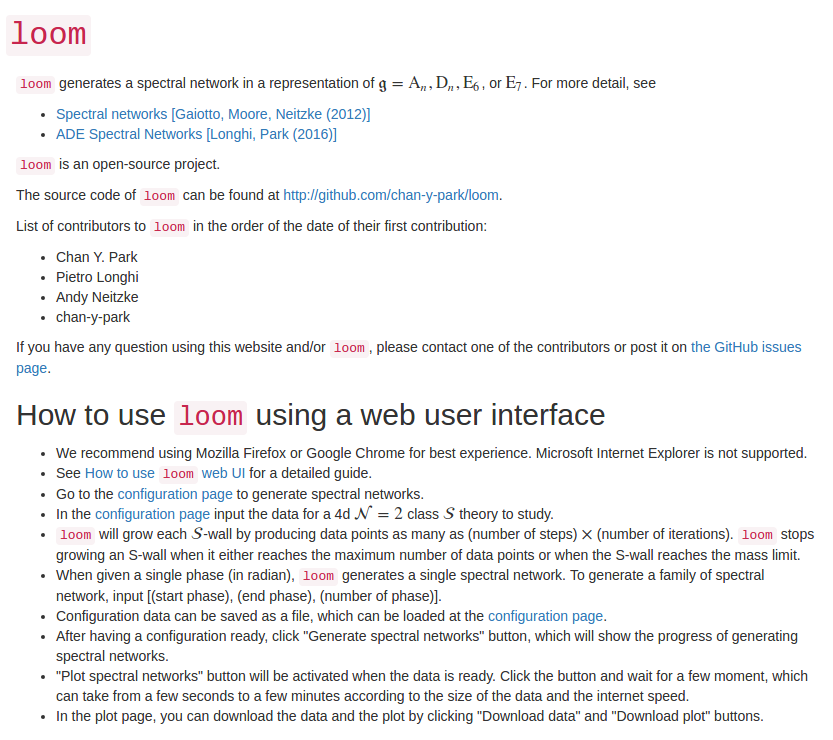
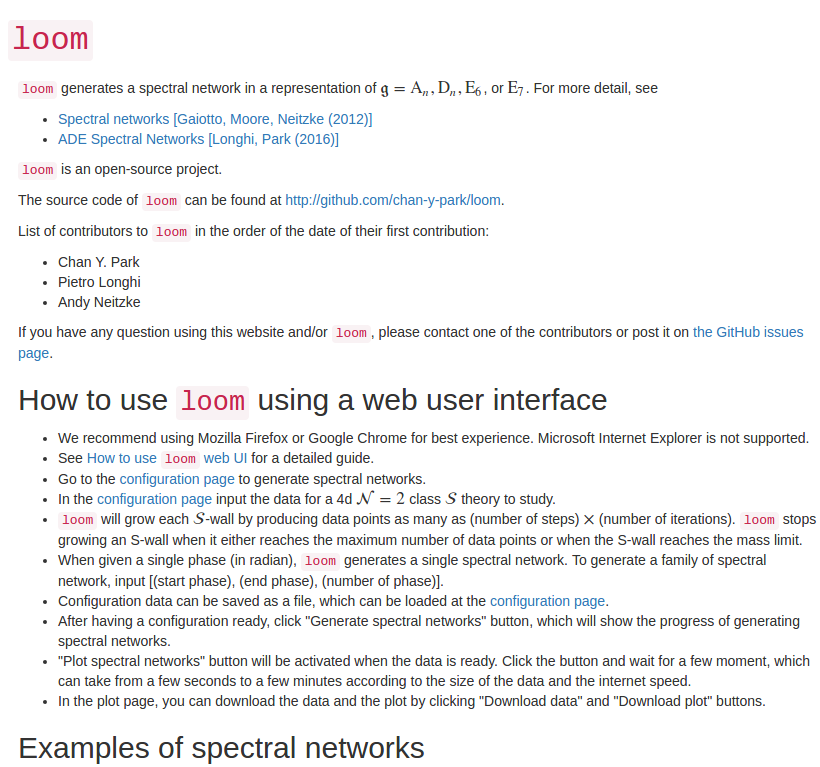
changed iframes to png

Changed region(s): [[0.0, 0.0932, 1.0, 0.9946], [0.0, 0.0311, 0.122, 0.0622]]

diff --git a/blog/scipy_2016_talk.html b/blog/scipy_2016_talk.html
@@ -144,8 +144,11 @@ Chan's Blog            </a>
 <h2>Introduction</h2>
 <p>This is an expanded version of my talk &#64; SciPy 2016.</p>
 <p>I am a postdoc studying string theory at Rutgers University. Here I want to share with you my experience of using Python in my research project. As a teaser, let me show you the end-product of the project, loom, whose web UI can be found at <a class="reference external" href="http://chan.physics.rutgers.edu/loom">http://chan.physics.rutgers.edu/loom</a>.</p>
-<iframe src="http://chan.physics.rutgers.edu/loom" style="border: 1px black solid; width: 800px; height: 800px;"></iframe><p>Here you can see many colorful plots produced for real research, and you can generate your own plot by first going to the configuration page, inputting a few parameters, and then click ‘generate.’ Now you see loom working hard, and like a food network show, let me show you a prepared plot instead of waiting for a while, and here is one nice colorful plot.</p>
-<iframe src="http://chan.physics.rutgers.edu/loom/plot?data=AD_from_pure_SU_3" style="border: 1px black solid; width: 1280px; height: 800px;"></iframe><div class="section" id="goal">
+<a class="reference external image-reference" href="http://chan.physics.rutgers.edu/loom/"><img alt="loom front page #1" class="align-left" src="./figures/loom_scipy_2016/loom_front_page_1.png" /></a>
+<a class="reference external image-reference" href="http://chan.physics.rutgers.edu/loom/"><img alt="loom front page #2" class="align-left" src="./figures/loom_scipy_2016/loom_front_page_2.png" /></a>
+<p>Here you can see many colorful plots produced for real research, and you can generate your own plot by first going to the configuration page, inputting a few parameters, and then click ‘generate.’ Now you see loom working hard, and like a food network show, let me show you a prepared plot instead of waiting for a while, and here is one nice colorful plot.</p>
+<a class="reference external image-reference" href="http://chan.physics.rutgers.edu/loom/plot?data=AD_from_pure_SU_3"><img alt="loom plot page" class="align-left" src="./figures/loom_scipy_2016/loom_plot_page.png" /></a>
+<div class="section" id="goal">
 <h3>Goal</h3>
 <p>My goal is to illustrate how Python is integrated throughout the progress of this project</p>
 <ul class="simple">
@@ -291,7 +294,7 @@ M = |Z|,\ Z = \oint_\gamma \lambda.
 <h3>Examples of spectral networks from <tt class="docutils literal">loom</tt></h3>
 <p>In practice, we generate a familiy of colorful networks called spectral networks, stare it until we spot a particle, do some taxonomy of them until we claim a victory.</p>
 <div style="display: block; margin: auto; width: 650px;">
-    <iframe src="loom_plots/AD_from_pure_SU_3.html" style="width: 600px; height: 700px; background:none; box-shadow:none; border:none;"></iframe>
+    <iframe src="figures/loom_plots/AD_from_pure_SU_3.html" style="width: 600px; height: 700px; background:none; box-shadow:none; border:none;"></iframe>
 </div></div>
 </div>
 <div class="section" id="from-a-physics-problem-to-a-computational-task">
@@ -311,7 +314,7 @@ SN step 3</object>
 full SN</object>
 <p>Now we <strong>generate a family of spectral networks</strong> for various values of <span class="math">\(\theta\)</span> between <span class="math">\(0\)</span> and <span class="math">\(\pi\)</span>, and <strong>look for a topological change</strong> of the networks by studying the evolution of the spectral networks as we change <span class="math">\(\theta\)</span>.</p>
 <div style="display: block; margin: auto; width: 650px;">
-    <iframe src="loom_plots/single_hyper.html" style="width: 600px; height: 700px; background:none; box-shadow:none; border:none;"></iframe>
+    <iframe src="figures/loom_plots/single_hyper.html" style="width: 600px; height: 700px; background:none; box-shadow:none; border:none;"></iframe>
 </div><p>For a certain value of <span class="math">\(\theta = \theta_\mathrm{c}\)</span> between plot index 9 and 10, we can see there is something going on, and this moment corresponds to spotting a supersymmetric particle.</p>
 <p>At <span class="math">\(\theta = \theta_\mathrm{c}\)</span>, there is a subnetwork <span class="math">\(\mathcal{W}_\mathrm{c} \subset \mathcal{W}_{\theta_\mathrm{c}}\)</span> of finite length between the two branch points, called a two-way street, and there is a supersymmetric particle corresponding to <span class="math">\(\mathcal{W}_\mathrm{c}\)</span>. In terms of M5- and M2-branes, this configuration looks like the following.</p>
 <div style="display: block; text-align: center; margin: auto; width: 300px;">
@@ -373,7 +376,7 @@ At first I used a neat trick of using interpolation which was done entirely usin
 <p>Then let me proceed to the frontend of loom. The most important part of it is of course the visualization of generate data, and both Bokeh and matplotlib were used.</p>
 <p>Bokeh is used to deliver a plot as a self-contained dynamic HTML plot, which produces colorful plots with interactability as we can see here with zooming and tooltip and so on, and it works well with reasonable size of data.</p>
 <div style="display: block; margin: auto; width: 550px; height: 575px;">
-    <iframe src="loom_plots/plot_example_bokeh.html" style="width: 550px; height: 575px; background:none; box-shadow:none; border:none;"></iframe>
+    <iframe src="figures/loom_plots/plot_example_bokeh.html" style="width: 550px; height: 575px; background:none; box-shadow:none; border:none;"></iframe>
 </div><p>matplotlib is useful when debugging thanks to its full customizability and also when producing a vector graphics for research papers.</p>
 <object class="align-center" data="./figures/loom_scipy_2016/plot_example_matplotlib.svg" style="width: 450px;" type="image/svg+xml">
 matplotlib plot example</object>
@@ -388,7 +391,8 @@ matplotlib plot example</object>
 <h4>Web application UI</h4>
 <p>But more emphasis was put on constructing a web frontend and web UI, because many of my theorist friends found it difficult to install Python and/or various Python libraries and I wanted to prepare a system and let my colleagues access it via web.  So a <strong>web frontend</strong> was built using <a class="reference external" href="http://flask.pocoo.org/">Flask</a> as a <strong>WSGI application</strong> running on an Apache web server, and the web application <strong>manages multiple instances of</strong> <tt class="docutils literal">loom</tt> <strong>processes</strong>.</p>
 <p>Then the web UI is implemented using JavaScript and Bokeh’s callback functions, and Server-Sent Events (SSE) were used to send log messages to client web browsers. So here let me show you again the web UI of loom.</p>
-<iframe src="http://chan.physics.rutgers.edu/loom/config" style="border: 1px black solid; width: 1280px; height: 850px;"></iframe></div>
+<a class="reference external image-reference" href="http://chan.physics.rutgers.edu/loom/config"><img alt="loom config page" class="align-left" src="./figures/loom_scipy_2016/loom_config_page.png" /></a>
+</div>
 </div>
 </div>
 <div class="section" id="epilogue">
